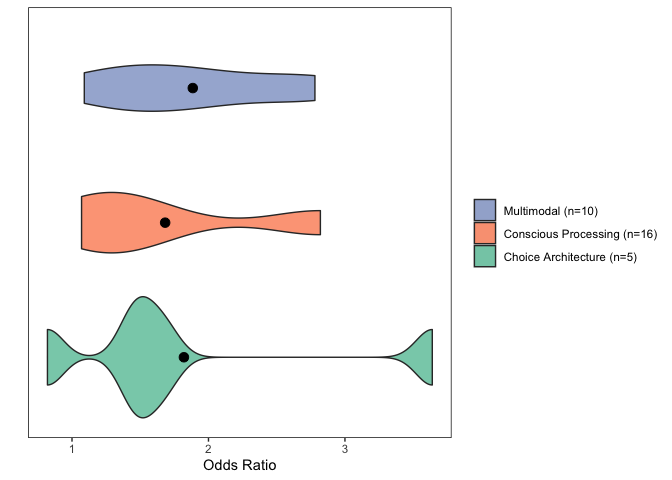
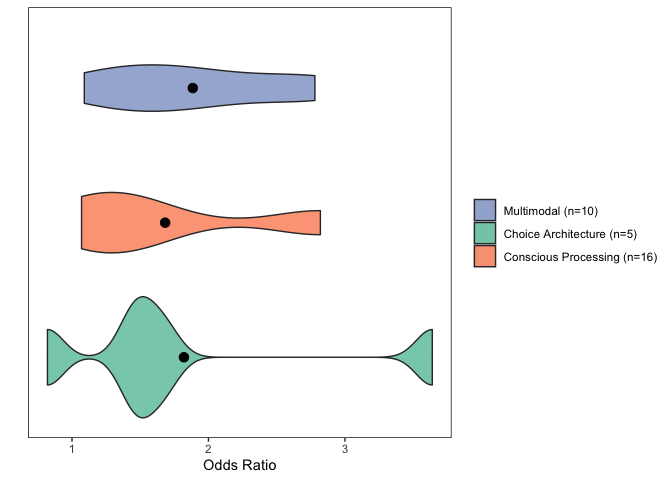
updated figures post-corrections

Changed region(s): [[0.6875, 0.4688, 0.9688, 0.5625]]

diff --git a/markdowns/visuals.md b/markdowns/visuals.md
@@ -118,7 +118,7 @@ print(as_tibble(fixed.effect))
 ggplot(fixed.effect,aes(x=effect.mag,y=approach,fill=approach)) +
   geom_violin(alpha=0.8) + 
   stat_summary(fun="mean",geom="point",shape=21,fill="black",size=3) +
-  scale_fill_brewer(palette="Set2",breaks=c("Multimodal","Conscious Processing","Choice Architecture"),labels=c("Multimodal (n=10)","Conscious Processing (n=16)","Choice Architecture (n=5)")) +
+  scale_fill_brewer(palette="Set2",breaks=c("Multimodal","Choice Architecture","Conscious Processing"),labels=c("Multimodal (n=10)","Choice Architecture (n=5)","Conscious Processing (n=16)")) +
   xlab("Odds Ratio") + 
   ylab(" ") +
   labs(fill=" ") +
@@ -141,7 +141,7 @@ ggplot(fixed.effect,aes(x=effect.mag,y=study.title,color=approach)) +
   ylab(" ") + 
   scale_x_continuous(breaks=c(0,2,4,6,8),limits=c(0,8)) +
   labs(color="Approach") +
-  scale_color_brewer(breaks=c("Multimodal","Conscious Processing","Choice Architecture"),palette="Set2",labels=c("Multimodal (n=10)","Conscious Processing (n=16)","Choice Architecture (n=5)")) +
+  scale_color_brewer(breaks=c("Multimodal","Choice Architecture","Conscious Processing"),palette="Set2",labels=c("Multimodal (n=10)","Choice Architecture (n=5)","Conscious Processing (n=16)")) +
   scale_y_discrete(limits=c("Garnett et al. (2020a)","Garnett et al. (2021)","Brunner et al. (2018)","Schwitzgebel, Cokelet, & Singer (2020)","Malan (2020)","Larner et al. (2021)","Kurz (2018)","Garnett et al. (2019)","Jalil, Tasoff, & Bustamante (2020)","Turnwald & Crum (2019)","Cerezo-Prieto & Frutos-Esteban (2021)","Piester et al. (2020a)","Piester et al. (2020b)","Slapø & Karevold (2019)","Andersson & Nelander (2021)","Michels et al. (2008)","Garnett et al. (2020b)")) + 
   theme(panel.background=element_blank(),panel.border=element_rect(fill=NA),panel.grid.minor=element_blank())
 ```
